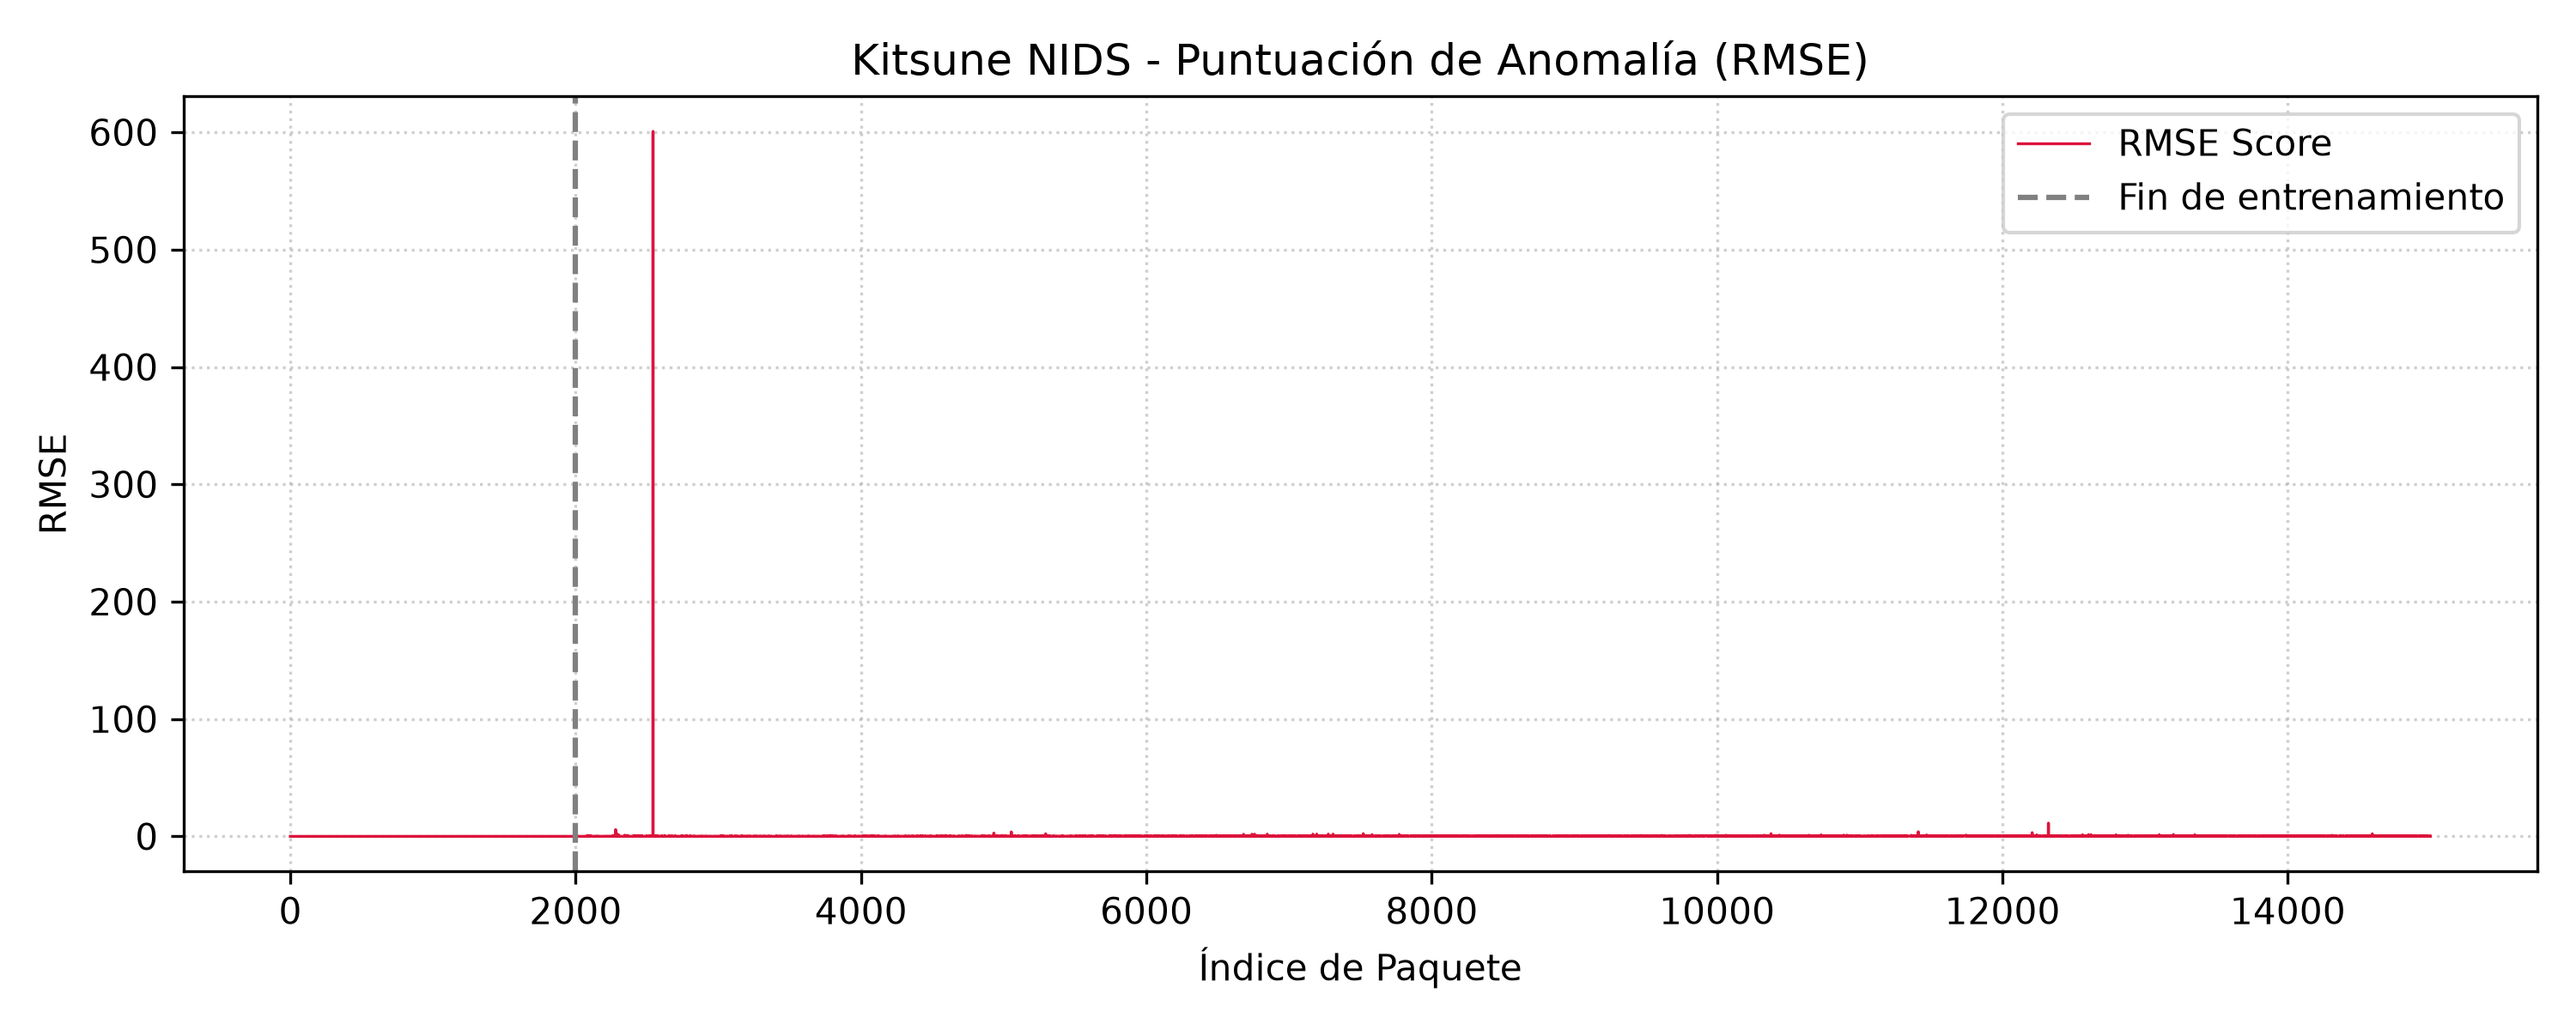
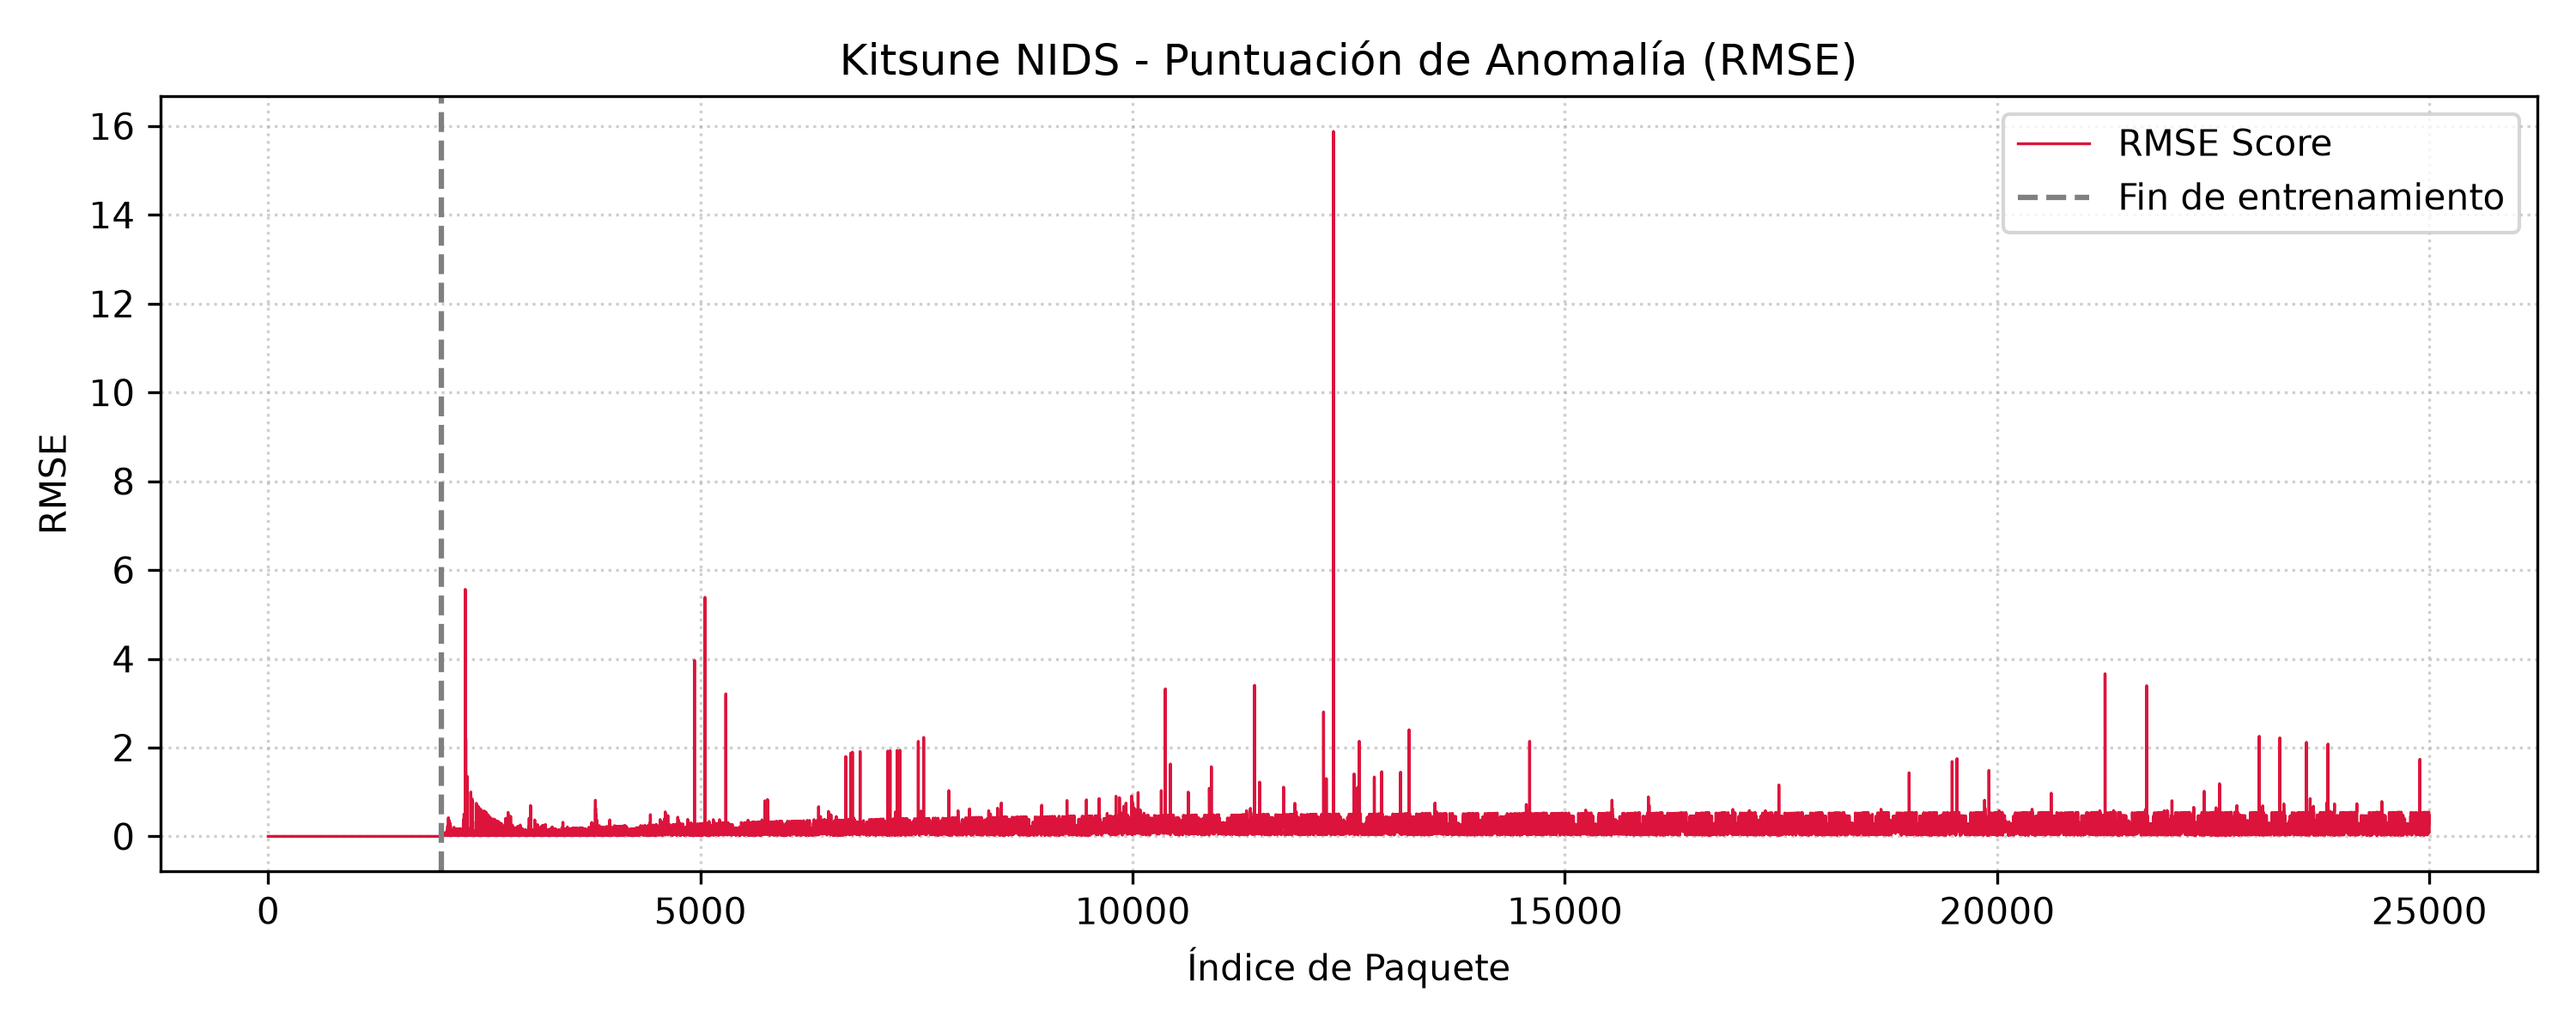
feat(cli): establish typer unified entrypoint and resolve packaging modules
- Register 'metrics' module in pyproject.toml to resolve stub binary import failures.
- Add 'typer' and 'rich' dependencies for typed CLI commands and visual telemetry.
- Validate 'kitsune demo' streaming on Windows 11 with 25k packets without admin privileges.
- Enforce strict corClust bounds (m <= 10) and SGD online training in local environment.

diff --git a/cli.py b/cli.py
@@ -14,12 +14,14 @@ import numpy as np
 
 # Importaciones del paquete Kitsune
 try:
-    from kitsune import Kitsune
-    from kitsune.metrics import compute_roc_metrics
-except ImportError:
-    # Fallback por compatibilidad con layout plano legacy
     from Kitsune import Kitsune
+except ImportError:
+    from kitsune import Kitsune  # Fallback si en el futuro migramos a src/
+
+try:
     from metrics import compute_roc_metrics
+except ImportError:
+    compute_roc_metrics = None
 
 def run_pipeline(
     path: str,
